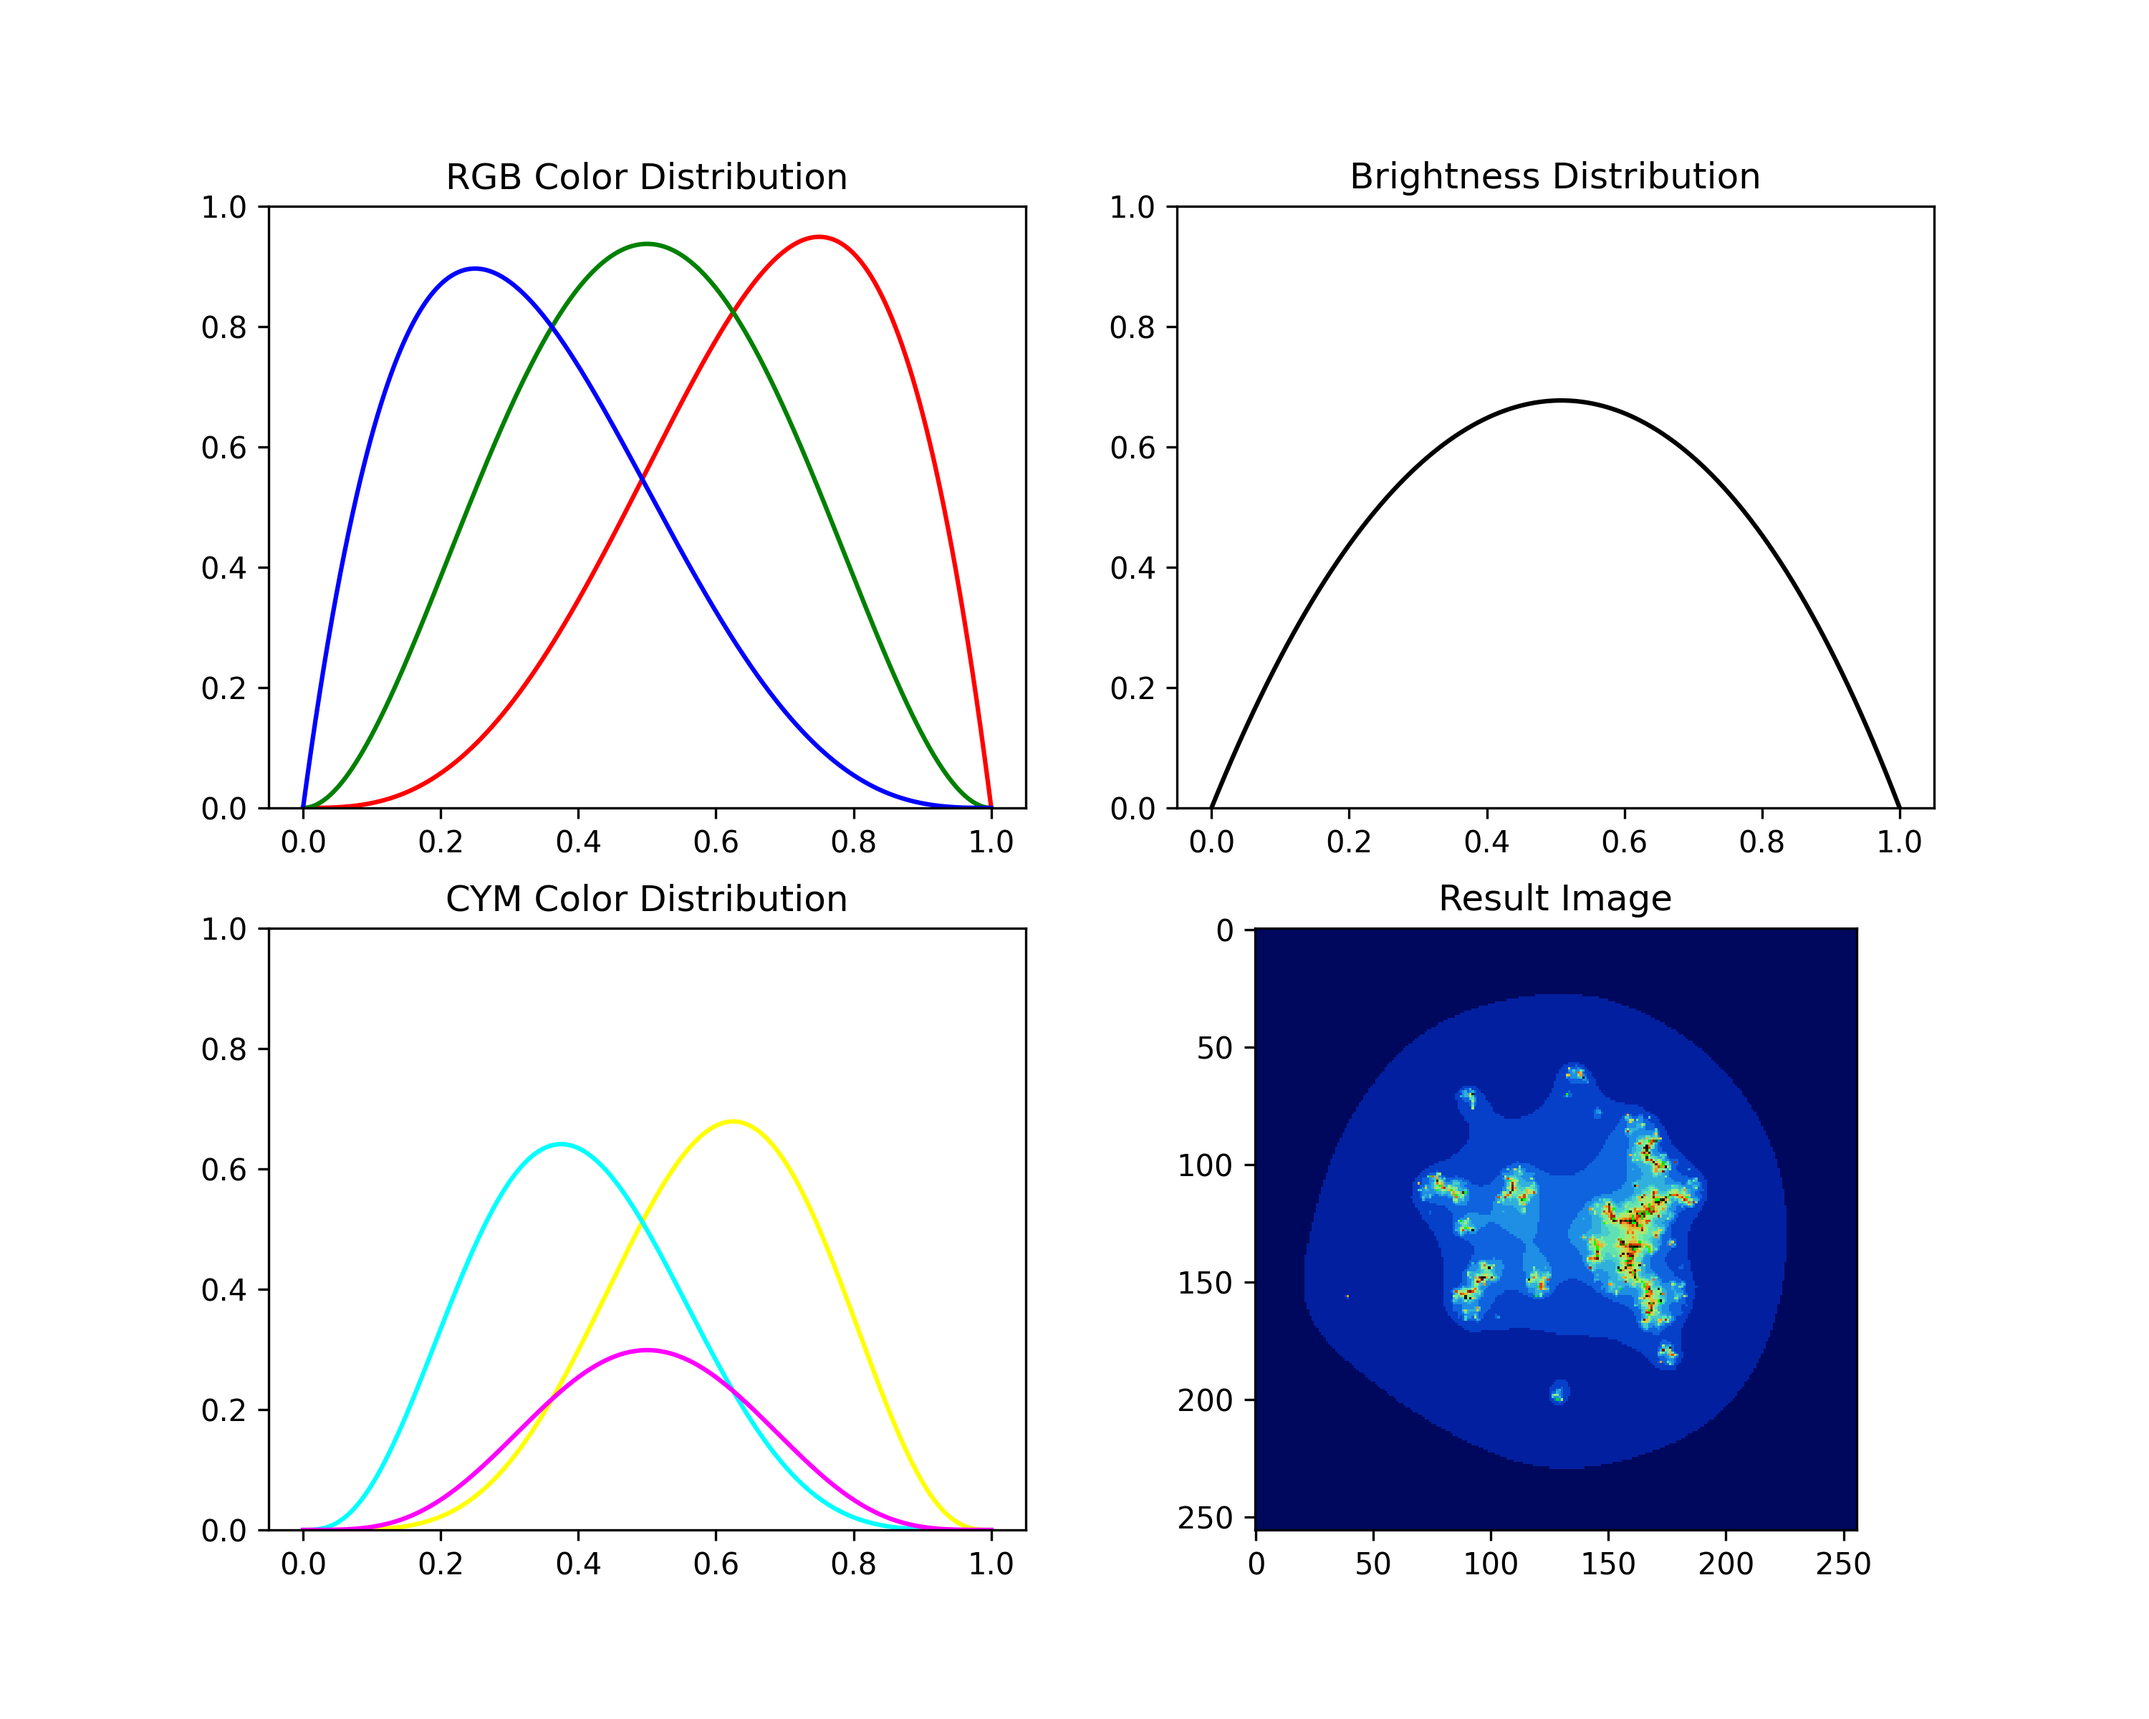
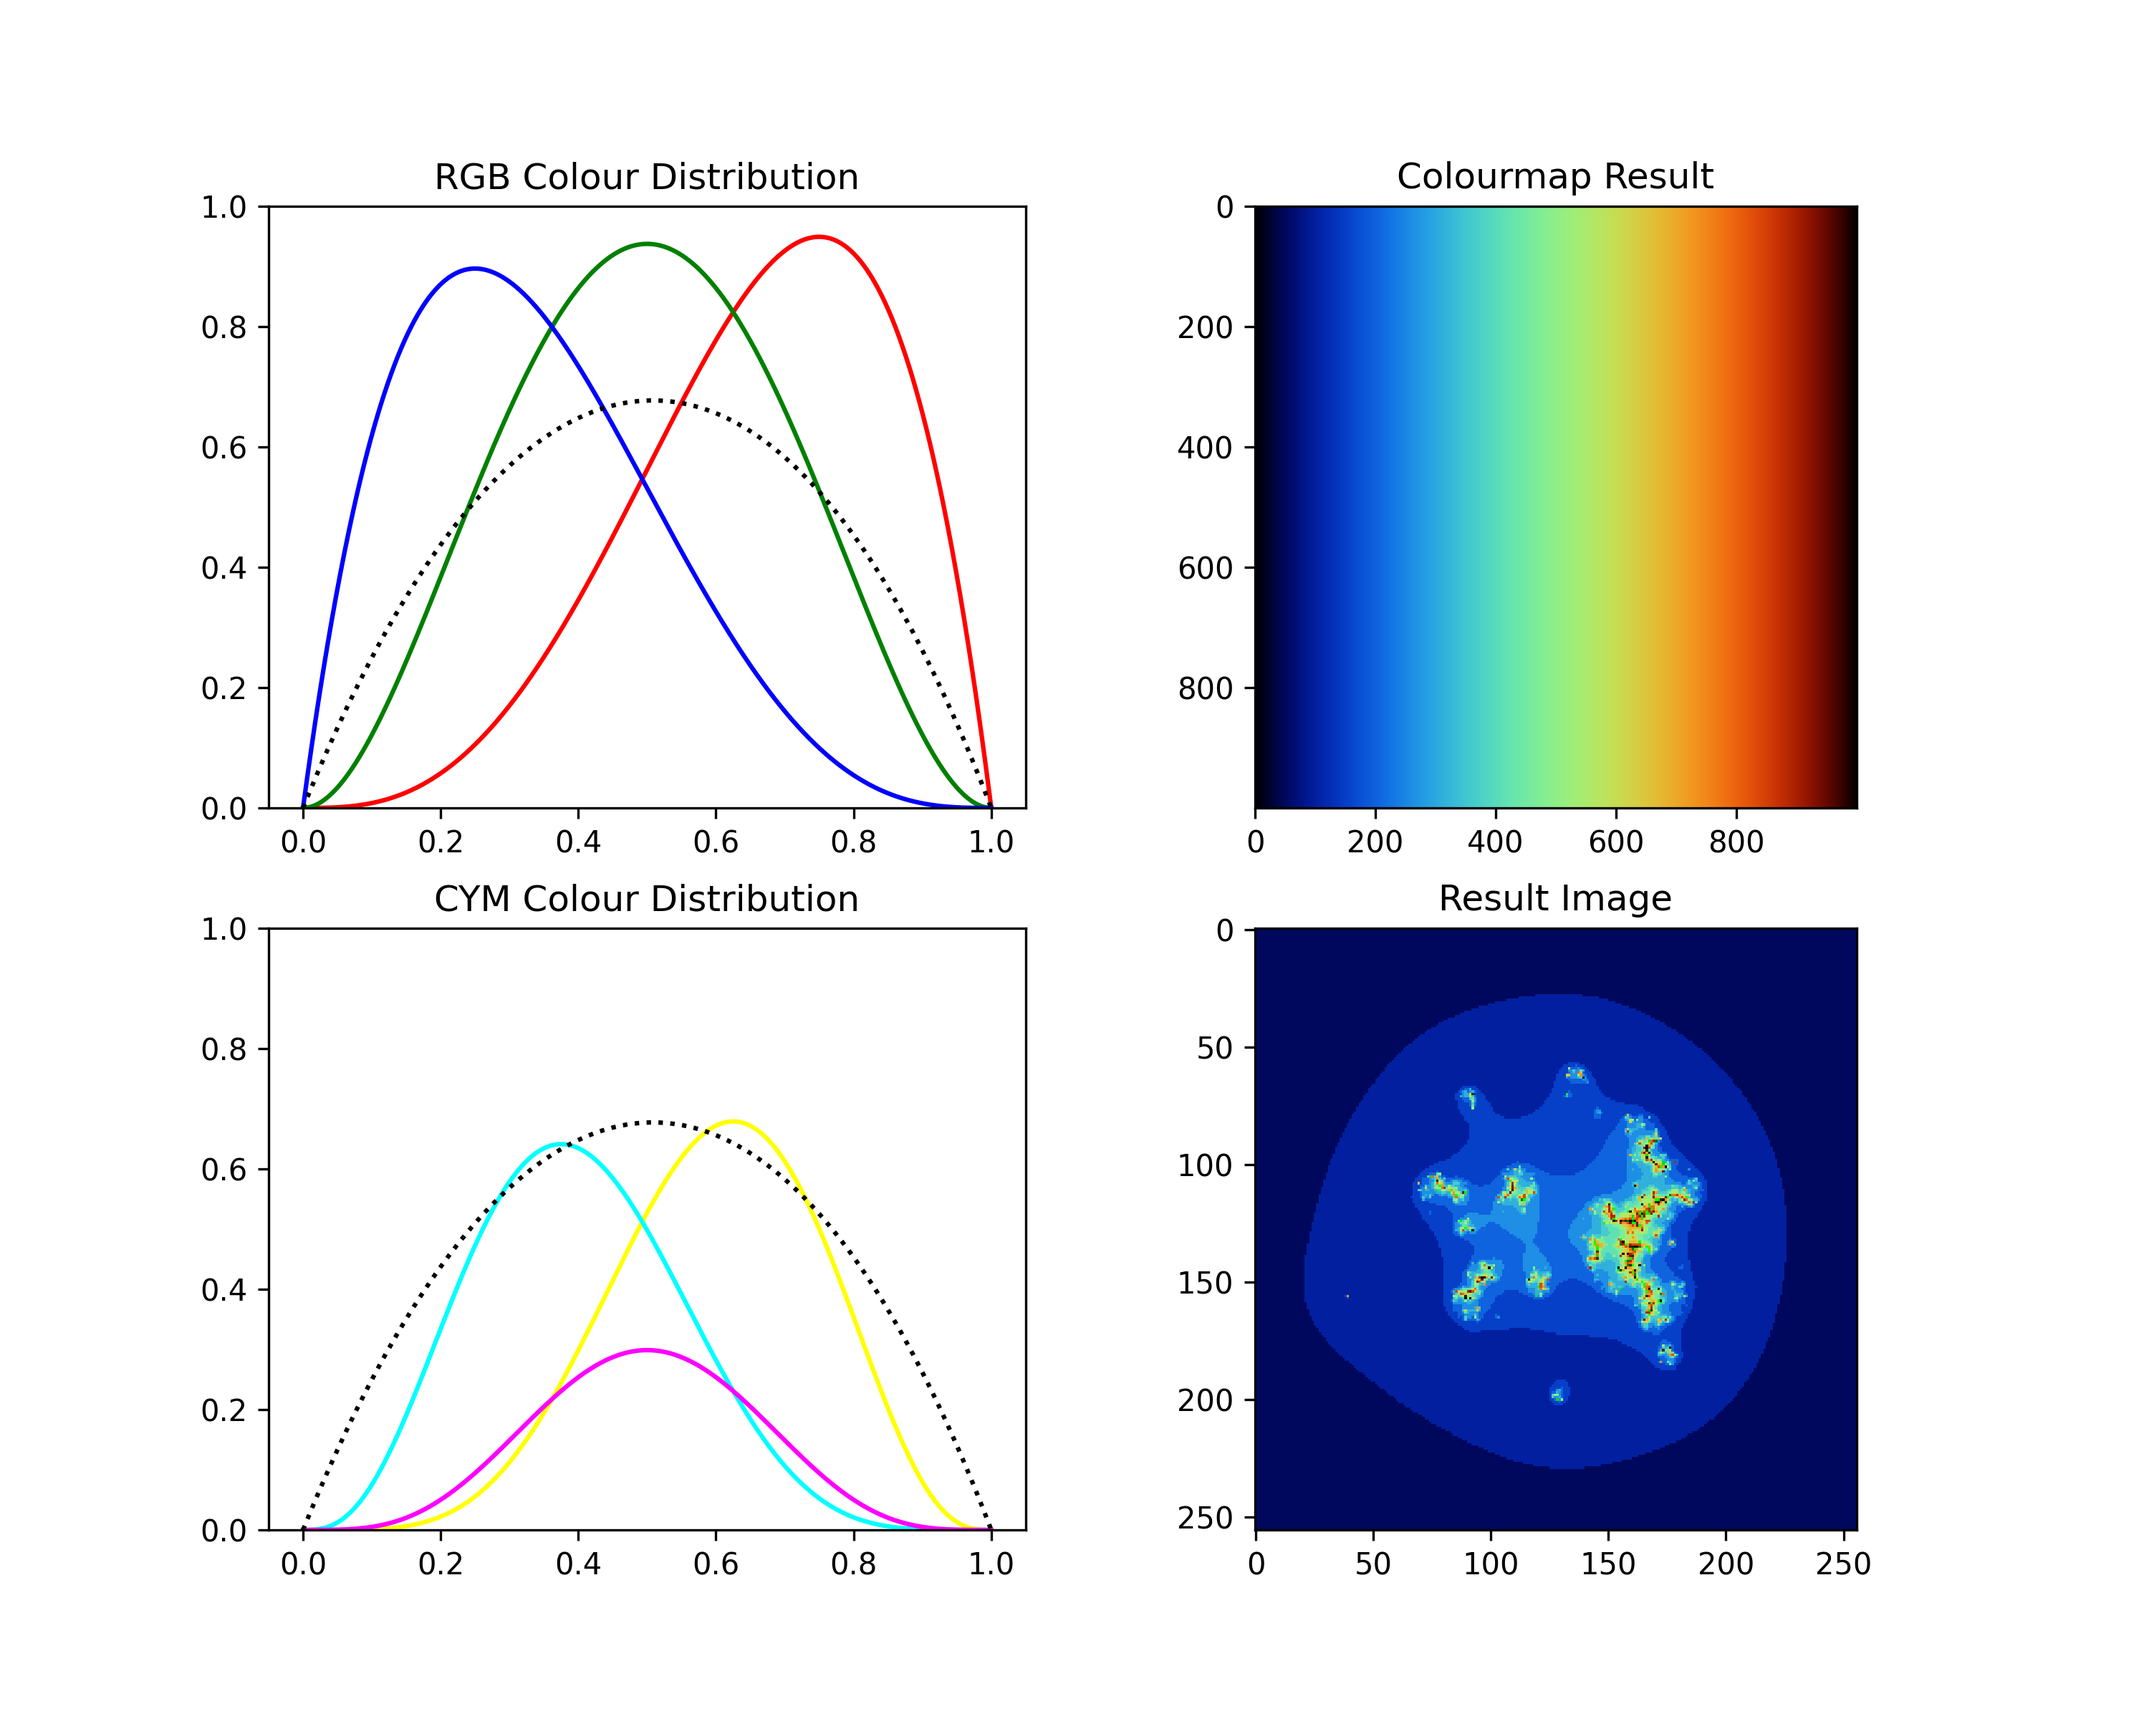
parametric tester now displays resulting colourmap

diff --git a/funcviewer/parametric_tester.py b/funcviewer/parametric_tester.py
@@ -23,25 +23,36 @@ res = frctl.parametric_cmap(None, im)
 
 fig, [[axTL, axTR], [axBL, axBR]] = plt.subplots(2,2)
 
-x = np.linspace(0,1, 1000)
+x = np.linspace(0,1,1000)
 
-
+cmap = np.array([[[param_R(t), param_G(t), param_B(t)] for t in x] for _ in x])
+print(cmap.shape)
 axTL.plot(x, param_R(x), color='r')
 axTL.plot(x, param_G(x), color='g')
 axTL.plot(x, param_B(x), color='b')
-axTL.set_title('RGB Color Distribution')
+axTL.plot(x, (param_R(x)+param_G(x)+param_B(x))/3, color=(0,0,0), linestyle=':')
+axTL.set_title('RGB Colour Distribution')
 
 axBL.plot(x, param_R(x)*param_G(x), color=(1,1,0))
 axBL.plot(x, param_G(x)*param_B(x), color=(0,1,1))
 axBL.plot(x, param_R(x)*param_B(x), color=(1,0,1))
-axBL.set_title('CYM Color Distribution')
+axBL.plot(x, (param_R(x)+param_G(x)+param_B(x))/3, color=(0,0,0), linestyle=':')
+axBL.set_title('CYM Colour Distribution')
 
-axTR.plot(x, (param_R(x)+param_G(x)+param_B(x))/3, color=(0,0,0))
-axTR.set_title('Brightness Distribution')
+axTR.imshow(cmap)
+axTR.set_title('Colourmap Result')
+
+
+axTL.set_ylim([0,1]), axBL.set_ylim([0,1])
 
 axBR.imshow(res)
 axBR.set_title('Result Image')
 
+fig.set_figwidth(10)
+fig.set_figheight(8)
+
+
+#fig.savefig('default_params.png', dpi=300, format='png')
 plt.show()
 
 
